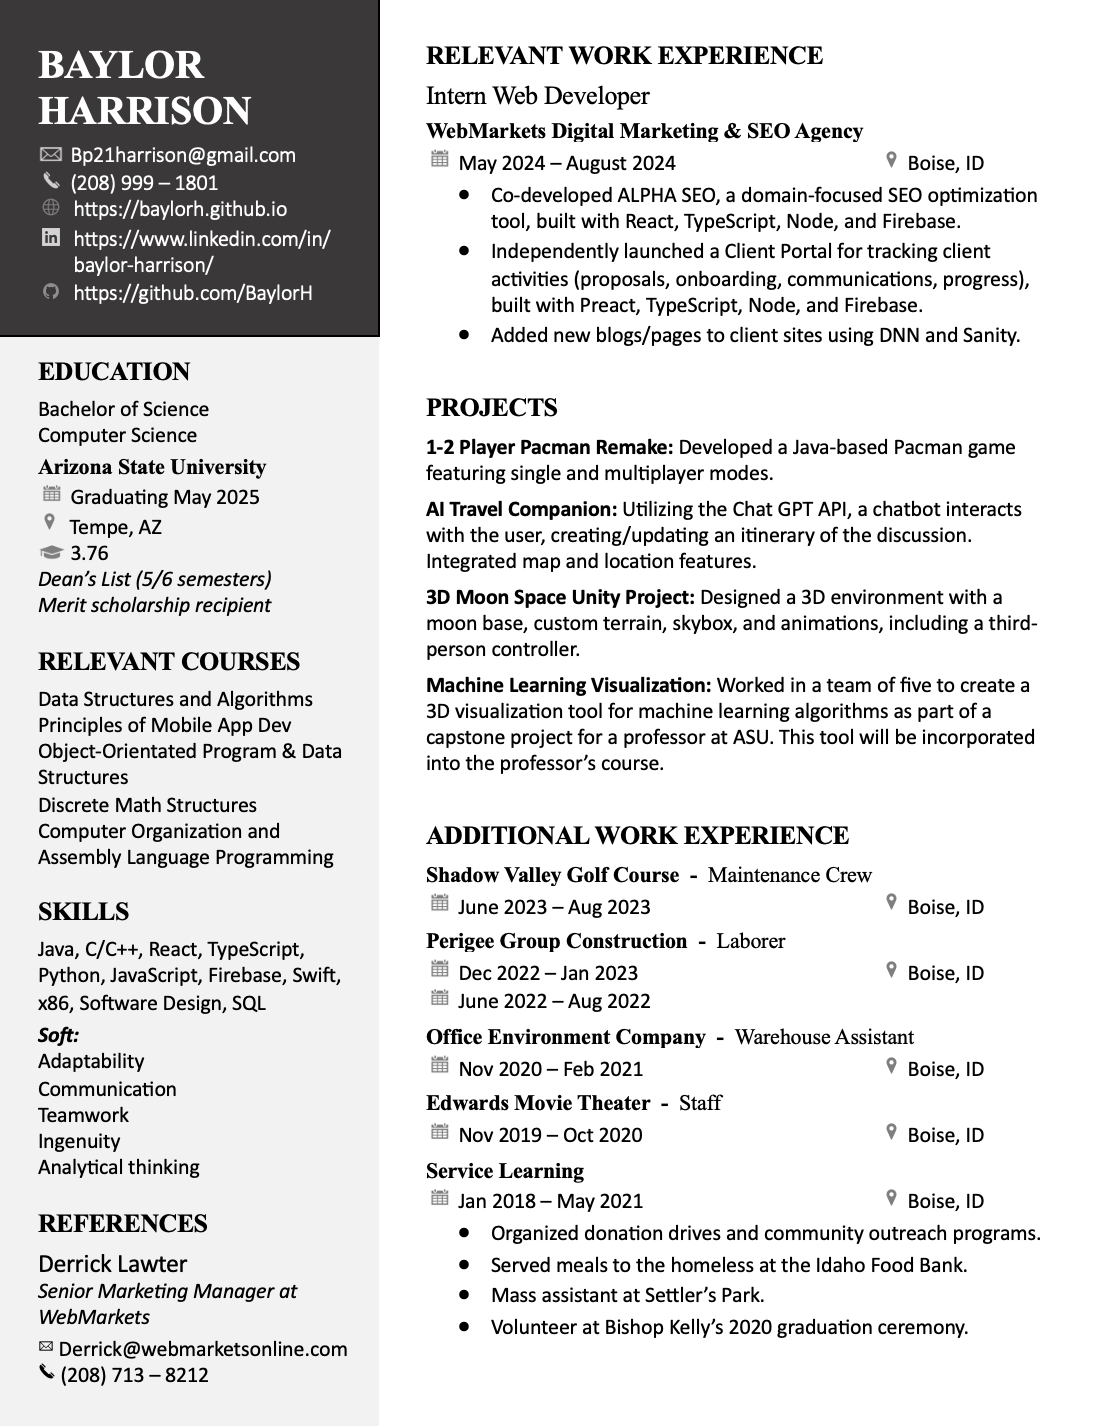
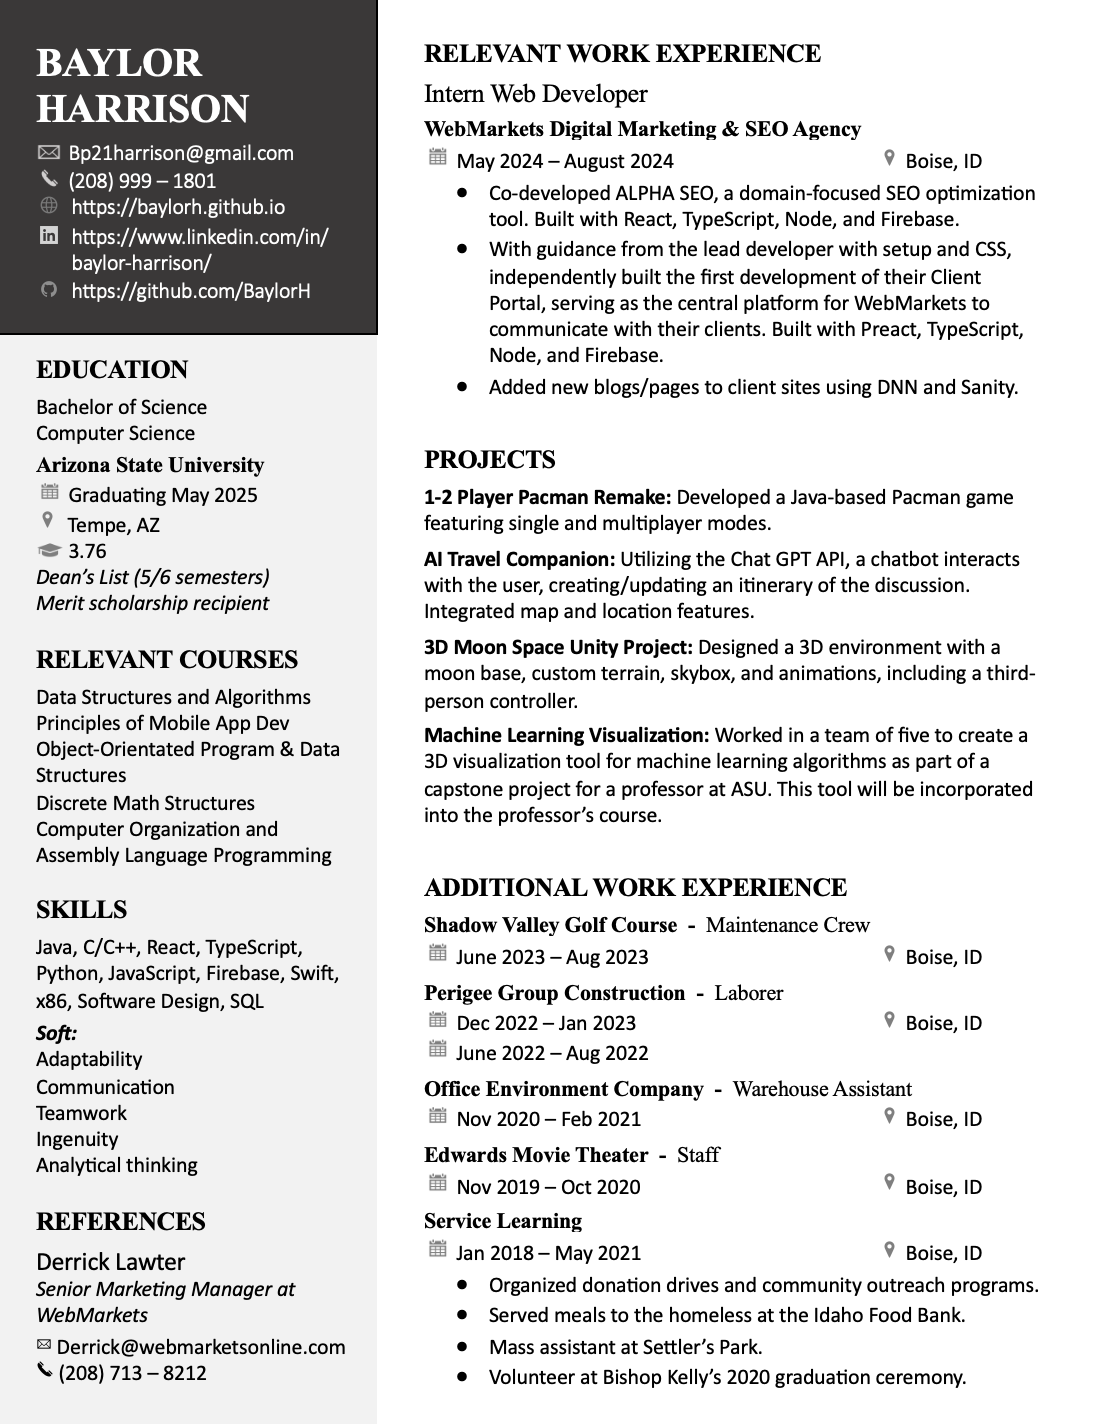
change home page to portfolio

Changed region(s): [[0.3716, 0.0309, 0.9599, 0.9888], [0.031, 0.2472, 0.3097, 0.9888], [0.031, 0.0309, 0.3097, 0.2163]]

diff --git a/alpha-seo.html b/alpha-seo.html
@@ -25,7 +25,7 @@
 				<!-- Nav -->
                 <nav id="nav">
                     <ul class="links">
-                        <li><a href="index.html">Projects</a></li>
+                        <li><a href="index.html">Portfolio</a></li>
                         <li><a href="resume.html">Resume</a></li>
                         <li class="active"><a href="alpha-seo.html">ALPHA SEO</a></li>
                     </ul>
@@ -44,18 +44,11 @@
 									<span class="date"><i>2024 Summer Internship</i></span>
 									<h1>ALPHA SEO</h1>
 									<p class="font-size-reduce">
-										Working as a Web Devloper Intern at <a href="https://webmarketsonline.com/" target="_blank">WebMarkets Digital Marketing & SEO Agency</a>, I independently developed the first 
-										version of their <a href="" target="_blank">Client Portal</a>, which serves as the central platform for client communication. I collaborated with the 
-										lead developer on setup and CSS. The project was built using Preact.js, TypeScript, Node, and Firebase.
+										Codeveloped a domain-focused SEO optimization tool at <a href="https://webmarketsonline.com/" target="_blank">WebMarkets Digital Marketing & SEO Agency</a>. 
+										<br />This product was built using React.js, TypeScript, Node.js, and Firebase.
 									</p>
 								</header>
-								<!-- <div class="image main">
-                                    <video autoplay loop muted playsinline id="video-background">
-										<source src="videos/ClientPortalLoginClip.mp4" type="video/mp4">
-										Your browser does not support the video tag.
-									</video>
-                                </div> -->
-                                <div class="image main"><img src="images/clientPortalClientDashboard.png" class="shadow-container" alt="" /></div>
+                                <div class="image main"><img src="images/pic02.jpg" class="shadow-container" alt="" /></div>
 								<p>Donec eget ex magna. Interdum et malesuada fames ac ante ipsum primis in faucibus. Pellentesque venenatis dolor imperdiet dolor mattis sagittis. Praesent rutrum sem diam, vitae egestas enim auctor sit amet. Pellentesque leo mauris, consectetur id ipsum sit amet, fergiat. Pellentesque in mi eu massa lacinia malesuada et a elit. Donec urna ex, lacinia in purus ac, pretium pulvinar mauris. Nunc lorem mauris, fringilla in aliquam at, euismod in lectus. Pellentesque habitant morbi tristique senectus et netus et malesuada fames ac turpis egestas. Curabitur sapien risus, commodo eget turpis at, elementum convallis enim turpis, lorem ipsum dolor sit amet nullam.</p>
 								<p>Lorem ipsum dolor sit amet, consectetur adipiscing elit. Duis dapibus rutrum facilisis. Class aptent taciti sociosqu ad litora torquent per conubia nostra, per inceptos himenaeos. Etiam tristique libero eu nibh porttitor fermentum. Nullam venenatis erat id vehicula viverra. Nunc ultrices eros ut ultricies condimentum. Mauris risus lacus, blandit sit amet venenatis non, bibendum vitae dolor. Nunc lorem mauris, fringilla in aliquam at, euismod in lectus. Pellentesque habitant morbi tristique senectus et netus et malesuada fames ac turpis egestas. In non lorem sit amet elit placerat maximus. Pellentesque aliquam maximus risus. Donec eget ex magna. Interdum et malesuada fames ac ante ipsum primis in faucibus. Pellentesque venenatis dolor imperdiet dolor mattis sagittis. Praesent rutrum sem diam, vitae egestas enim auctor sit amet. Pellentesque leo mauris, consectetur id ipsum.</p>
 							</section>

diff --git a/machine-learning-visualization.html b/machine-learning-visualization.html
@@ -25,7 +25,7 @@
 				<!-- Nav -->
                 <nav id="nav">
                     <ul class="links">
-                        <li><a href="index.html">Projects</a></li>
+                        <li><a href="index.html">Portfolio</a></li>
                         <li><a href="resume.html">Resume</a></li>
                         <li class="active"><a href="machine-learning-visualization.html">Machine Learning Visualization</a></li>
                     </ul>

diff --git a/ai-travel-companion.html b/ai-travel-companion.html
@@ -25,7 +25,7 @@
 				<!-- Nav -->
                 <nav id="nav">
                     <ul class="links">
-                        <li><a href="index.html">Projects</a></li>
+                        <li><a href="index.html">Portfolio</a></li>
                         <li><a href="resume.html">Resume</a></li>
                         <li class="active"><a href="ai-travel-companion.html">AI Travel Companion</a></li>
                     </ul>

diff --git a/pacman.html b/pacman.html
@@ -25,7 +25,7 @@
 				<!-- Nav -->
                 <nav id="nav">
                     <ul class="links">
-                        <li><a href="index.html">Projects</a></li>
+                        <li><a href="index.html">Portfolio</a></li>
                         <li><a href="resume.html">Resume</a></li>
                         <li class="active"><a href="pacman.html">Java-based Pacman</a></li>
                     </ul>

diff --git a/lunar-base.html b/lunar-base.html
@@ -25,7 +25,7 @@
 				<!-- Nav -->
                 <nav id="nav">
                     <ul class="links">
-                        <li><a href="index.html">Projects</a></li>
+                        <li><a href="index.html">Portfolio</a></li>
                         <li><a href="resume.html">Resume</a></li>
                         <li class="active"><a href="lunar-base.html">Lunar Base</a></li>
                     </ul>
